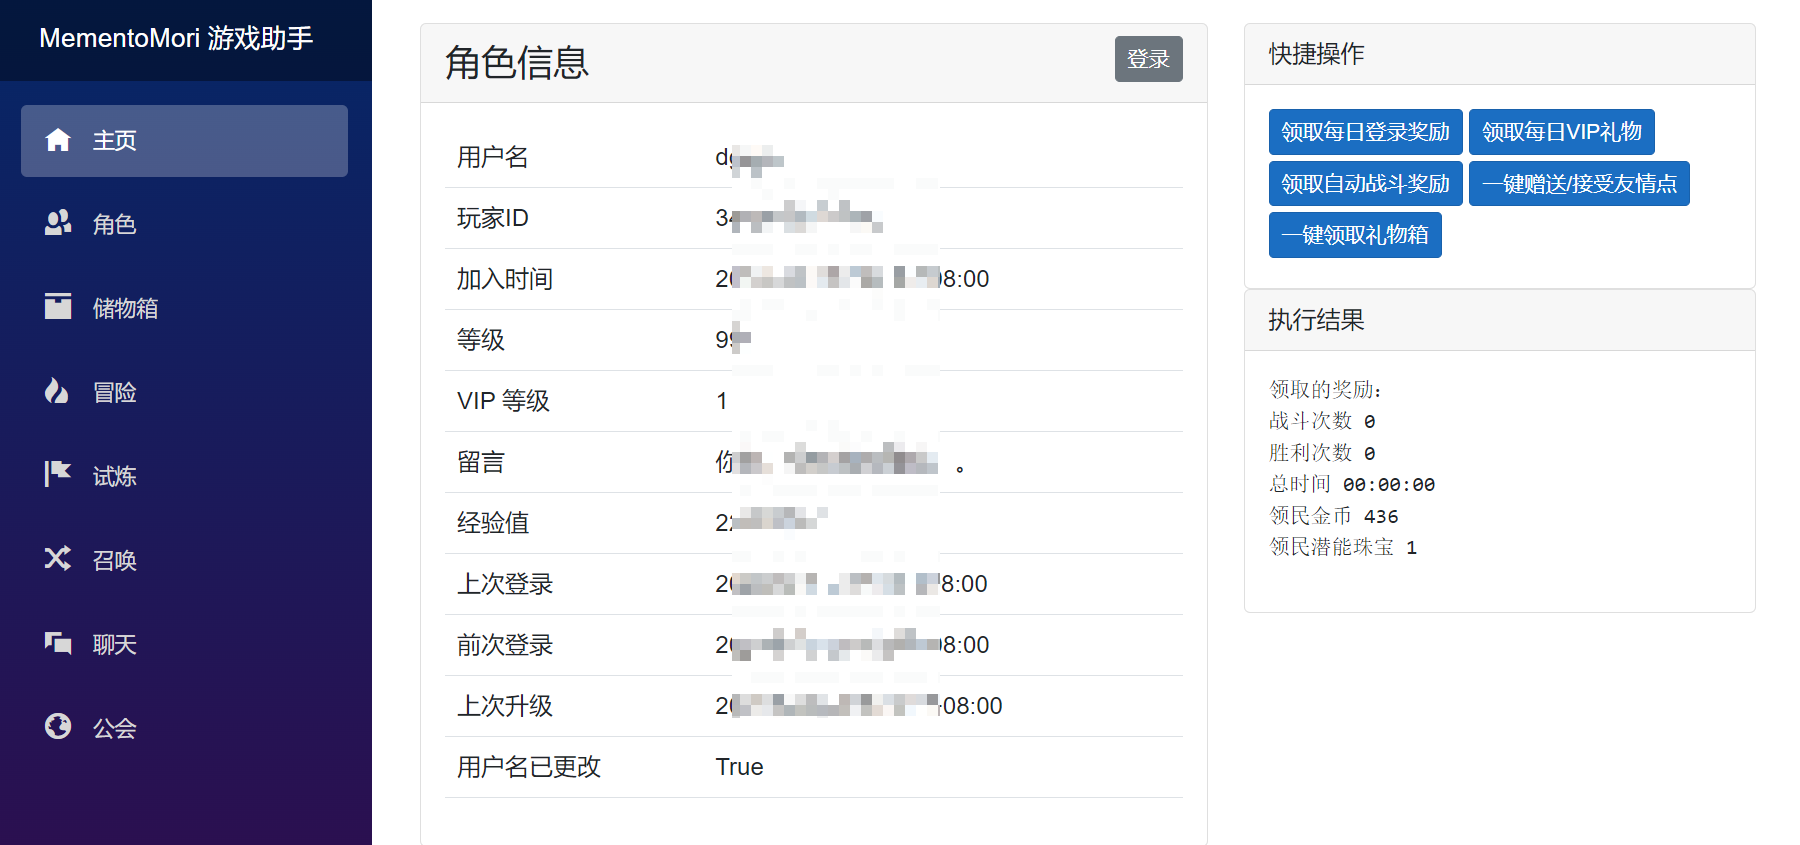
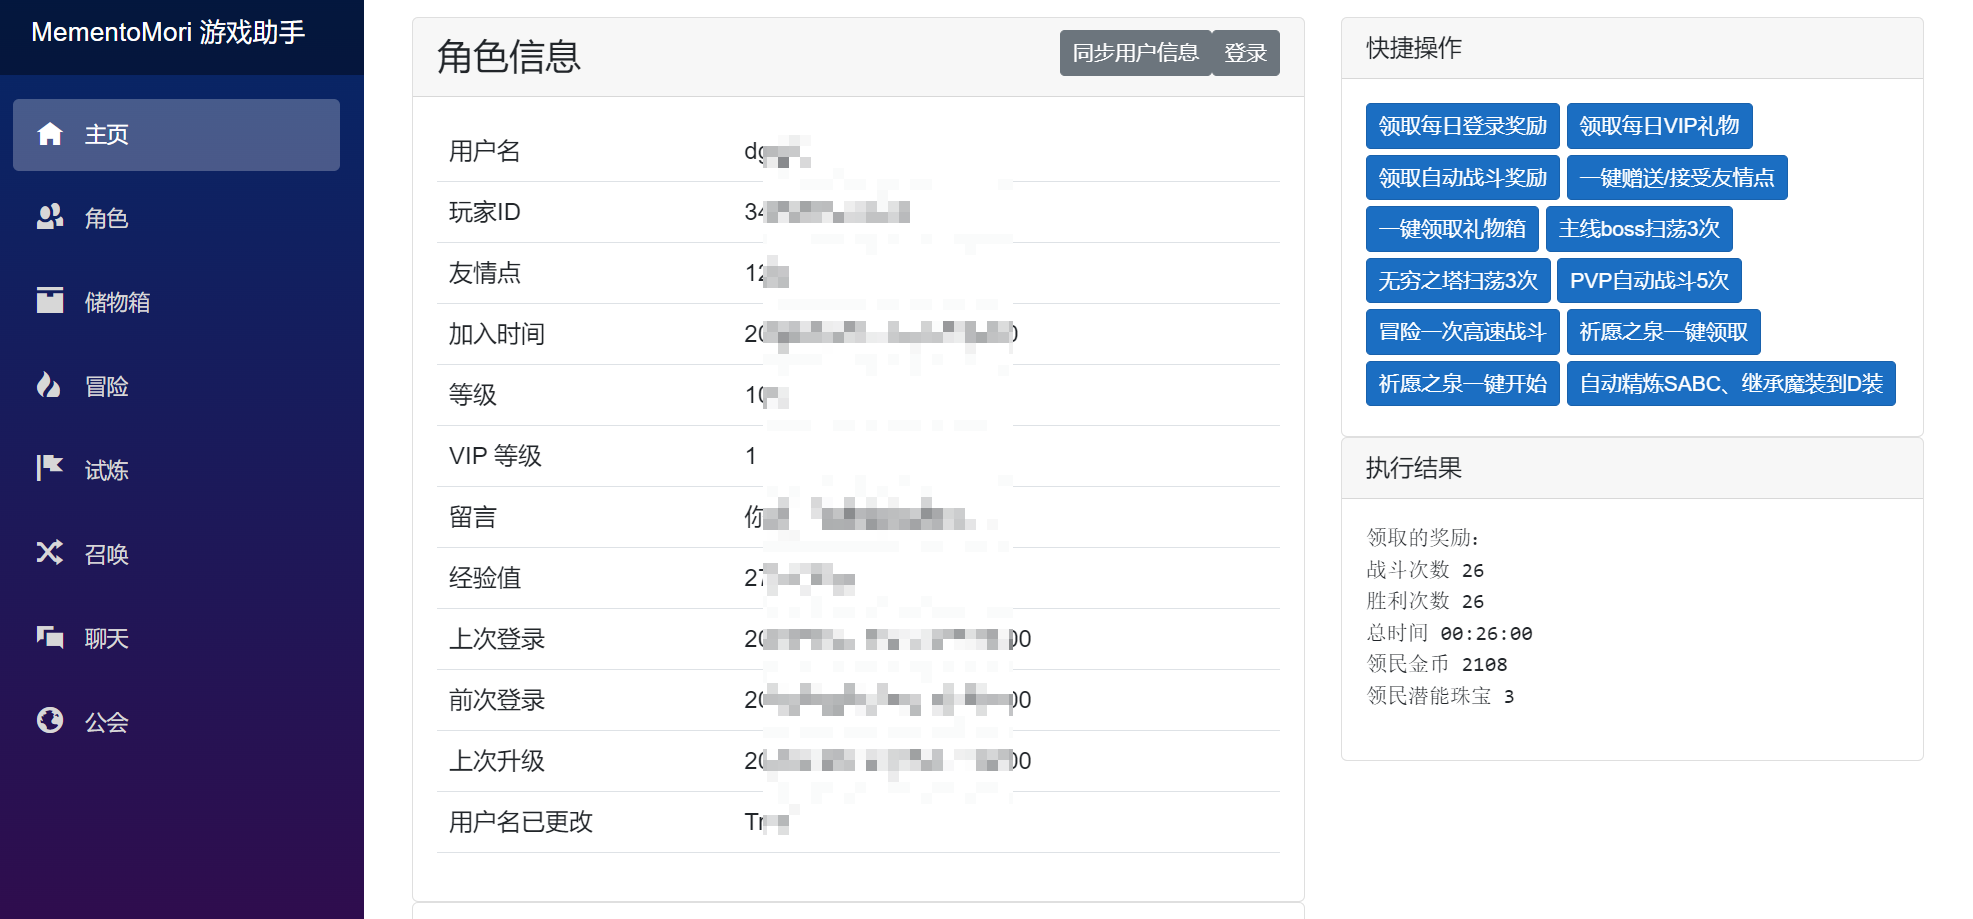
update readme.md

diff --git a/readme.md b/readme.md
@@ -3,6 +3,8 @@
 施工中
 
 ![](images/intro1.png)
+![](images/intro2.png)
+![](images/intro3.png)
 
 ## Todos
 
@@ -16,16 +18,17 @@
   - [ ] 一键领取任务奖励
 - [ ] 储物箱
   - [ ] 自动使用物品
+  - [x] 自动精炼SABC装备为魔装、继承到D级别装备
 - [ ] 冒险
   - [x] 领取自动战斗奖励
-  - [ ] 一键高速战斗
+  - [x] 一键高速战斗
   - [x] 首领一键扫荡
   - [ ] 自动刷关
 - [ ] 试炼
   - [x] 无穷之塔一键扫荡
   - [ ] 无穷之塔自动刷关
   - [ ] 幻影神殿一键挑战
-  - [x] 古竞技场一键挑战
+  - [x] 古竞技场一键挑战5次
   - [x] 祈愿之泉一键全部领取
   - [ ] 祈愿之泉一键远征
   - [ ] 时空洞窟一键自动执行
